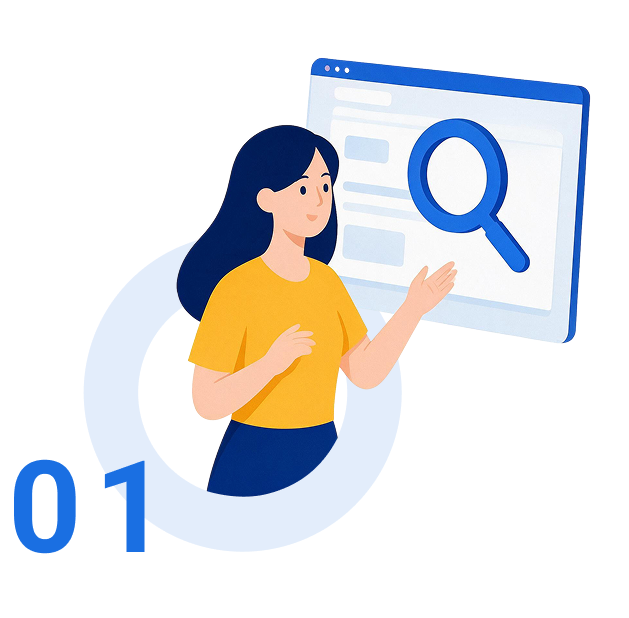
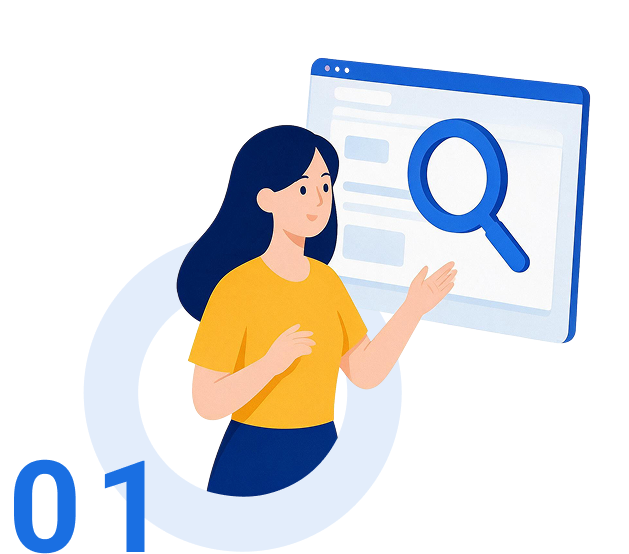
更新內容與圖片素材

Changed region(s): [[0.0, 0.0921, 0.9364, 1.0]]

diff --git a/stylesheets/layout/_headerStaff.scss b/stylesheets/layout/_headerStaff.scss
@@ -4,6 +4,17 @@
 
 .site-header-user {
     position: relative;
+
+    // 按鈕與選單之間有 10px 視覺間隔（margin-top），但 margin 不屬於可 hover 範圍，
+    // 滑鼠從按鈕移向選單途中會先離開 :hover 判定導致選單消失，故加透明橋接偽元素蓋住這段間隔
+    &::after {
+        content: "";
+        position: absolute;
+        top: 100%;
+        left: 0;
+        right: 0;
+        height: 10px;
+    }
 }
 
 .site-header-user-trigger {
@@ -106,13 +117,16 @@
 }
 
 // 滑鼠 hover 於整個使用者選單區塊（按鈕＋選單）時，直接展開下拉選單；
-// 鍵盤 Tab+Enter 仍走 Bootstrap 原生點擊切換（aria-expanded／.show），兩者並存。
-.site-header-user:hover .site-header-user-menu {
+// 鍵盤 Tab+Enter／點擊仍走 Bootstrap 原生切換（aria-expanded／.show），
+// 觸發按鈕已加 data-bs-display="static" 關閉 Popper 自動定位，兩種觸發方式共用同一組定位，
+// 間距與 .site-admin-nav-menu（第二排下拉）統一為 10px
+.site-header-user:hover .site-header-user-menu,
+.site-header-user-trigger[aria-expanded="true"] + .site-header-user-menu {
     display: block;
     top: 100%;
     right: 0;
     left: auto;
-    margin-top: $dropdown-spacer;
+    margin-top: 10px;
 }
 
 .site-header-user-menu {

diff --git a/css/all.css b/css/all.css
@@ -15195,6 +15195,14 @@ textarea:focus-visible {
 .site-header-user {
   position: relative;
 }
+.site-header-user::after {
+  content: "";
+  position: absolute;
+  top: 100%;
+  left: 0;
+  right: 0;
+  height: 10px;
+}
 
 .site-header-user-trigger {
   gap: 10px;
@@ -15287,12 +15295,13 @@ textarea:focus-visible {
     transition: none;
   }
 }
-.site-header-user:hover .site-header-user-menu {
+.site-header-user:hover .site-header-user-menu,
+.site-header-user-trigger[aria-expanded=true] + .site-header-user-menu {
   display: block;
   top: 100%;
   right: 0;
   left: auto;
-  margin-top: 0.125rem;
+  margin-top: 10px;
 }
 
 .site-header-user-menu {
@@ -16958,11 +16967,11 @@ textarea:focus-visible {
 }
 
 .steps-item:nth-child(1) .steps-item-visual {
-  max-width: 300px;
+  max-width: 280px;
 }
 
 .steps-item:nth-child(2) .steps-item-visual {
-  max-width: 200px;
+  max-width: 205px;
 }
 
 .steps-item:nth-child(3) .steps-item-visual {
@@ -17001,7 +17010,7 @@ textarea:focus-visible {
     max-width: 150px;
   }
   .steps-item:nth-child(3) .steps-item-visual {
-    max-width: 180px;
+    max-width: 170px;
   }
 }
 .noticeBox {

diff --git a/layout/header_AdminLogged.html b/layout/header_AdminLogged.html
@@ -11,7 +11,7 @@
 
             <div class="site-header-actions flex-row-center">
                 <div class="dropdown site-header-user d-none d-lg-block">
-                    <button type="button" class="site-header-user-trigger flex-row-center" data-bs-toggle="dropdown" aria-expanded="false">
+                    <button type="button" class="site-header-user-trigger flex-row-center" data-bs-toggle="dropdown" data-bs-display="static" aria-expanded="false">
                         <i class="bi bi-person-circle" aria-hidden="true"></i>
                         <span class="site-header-user-info flex-column">
                             <strong data-user-name>陳韻茹</strong>

diff --git a/layout/header_StaffLogged.html b/layout/header_StaffLogged.html
@@ -19,7 +19,7 @@
 
             <div class="site-header-actions flex-row-center">
                 <div class="dropdown site-header-user d-none d-lg-block">
-                    <button type="button" class="site-header-user-trigger flex-row-center" data-bs-toggle="dropdown" aria-expanded="false">
+                    <button type="button" class="site-header-user-trigger flex-row-center" data-bs-toggle="dropdown" data-bs-display="static" aria-expanded="false">
                         <i class="bi bi-person-circle" aria-hidden="true"></i>
                         <span class="site-header-user-info flex-column">
                             <strong data-user-name>陳怡君</strong>

diff --git a/stylesheets/components/_stepsSection.scss b/stylesheets/components/_stepsSection.scss
@@ -151,11 +151,11 @@ $steps-wave-front: #F1F6FD;
 // 三張插圖原始畫布留白比例不同（查詢空間.png 含電腦視窗、留白較多），
 // 若同寬顯示臉部會大小不一，故各自校正 max-width 讓臉部視覺尺寸一致
 .steps-item:nth-child(1) .steps-item-visual {
-    max-width: 300px;
+    max-width: 280px;
 }
 
 .steps-item:nth-child(2) .steps-item-visual {
-    max-width: 200px;
+    max-width: 205px;
 }
 
 .steps-item:nth-child(3) .steps-item-visual {
@@ -194,6 +194,6 @@ $steps-wave-front: #F1F6FD;
     max-width: 150px;
 }
 .steps-item:nth-child(3) .steps-item-visual {
-    max-width: 180px;
+    max-width: 170px;
 }
 }
